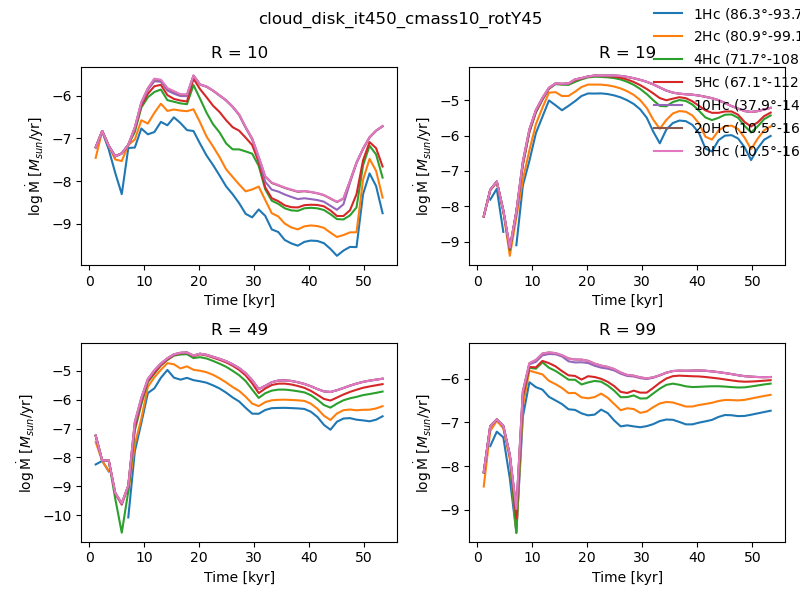
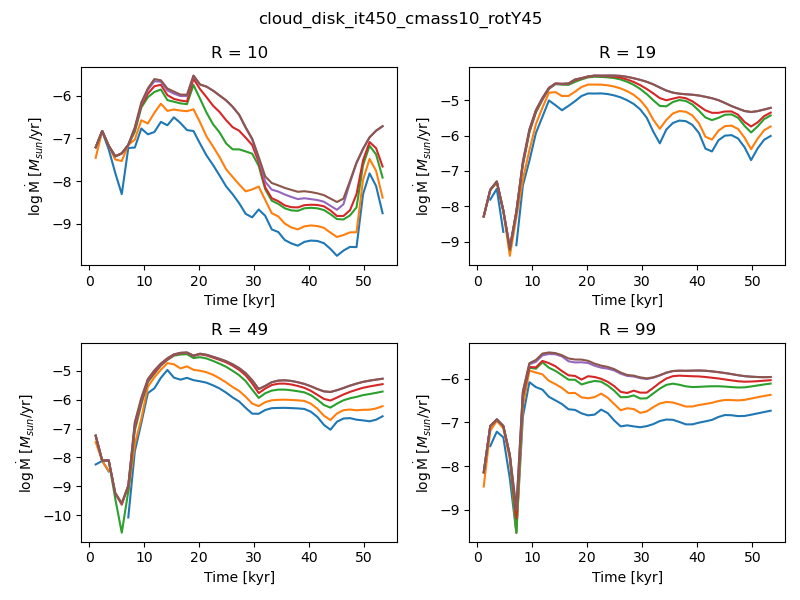
kill me

diff --git a/accretion.py b/accretion.py
@@ -231,7 +231,7 @@ def main():
     ########################### Check accretion at different radii for different max heights #############################
 
     # Defining max heights and the corresponding plot labels
-    zmax_array = [1, 2, 4, 5, 10, 20, 30]
+    zmax_array = [1, 2, 4, 5, 10, 20]
     zmax_labels = {}
 
     # Defining radii at which I want to plot accretion at different max heights
@@ -244,7 +244,7 @@ def main():
     r_for_acc = {r0: 0, r20: idx_20, r50: idx_50, r100: idx_100}
 
     # Defining subplots
-    fig, axes = plt.subplots(2, 2, figsize=(8, 6), constrained_layout=True)
+    fig, axes = plt.subplots(2, 2, figsize=(8, 6))
     axes = axes.flatten()
     plot_counter=0
     
@@ -285,7 +285,7 @@ def main():
         handles, labels = axes[plot_counter].get_legend_handles_labels()
         plot_counter += 1
        
-    fig.legend(handles, labels, loc="upper right", bbox_to_anchor=(1.05, 1.), borderaxespad=0., frameon=False)
+    # fig.legend(handles, labels, loc="upper right", bbox_to_anchor=(1.05, 1.), borderaxespad=0., frameon=False)
     fig.suptitle(f"{sim_name}")  
     fig.tight_layout()
     plt.savefig(f'{fig_imgs}/logMdot_vs_t_all_radii_all_zmax.png')
